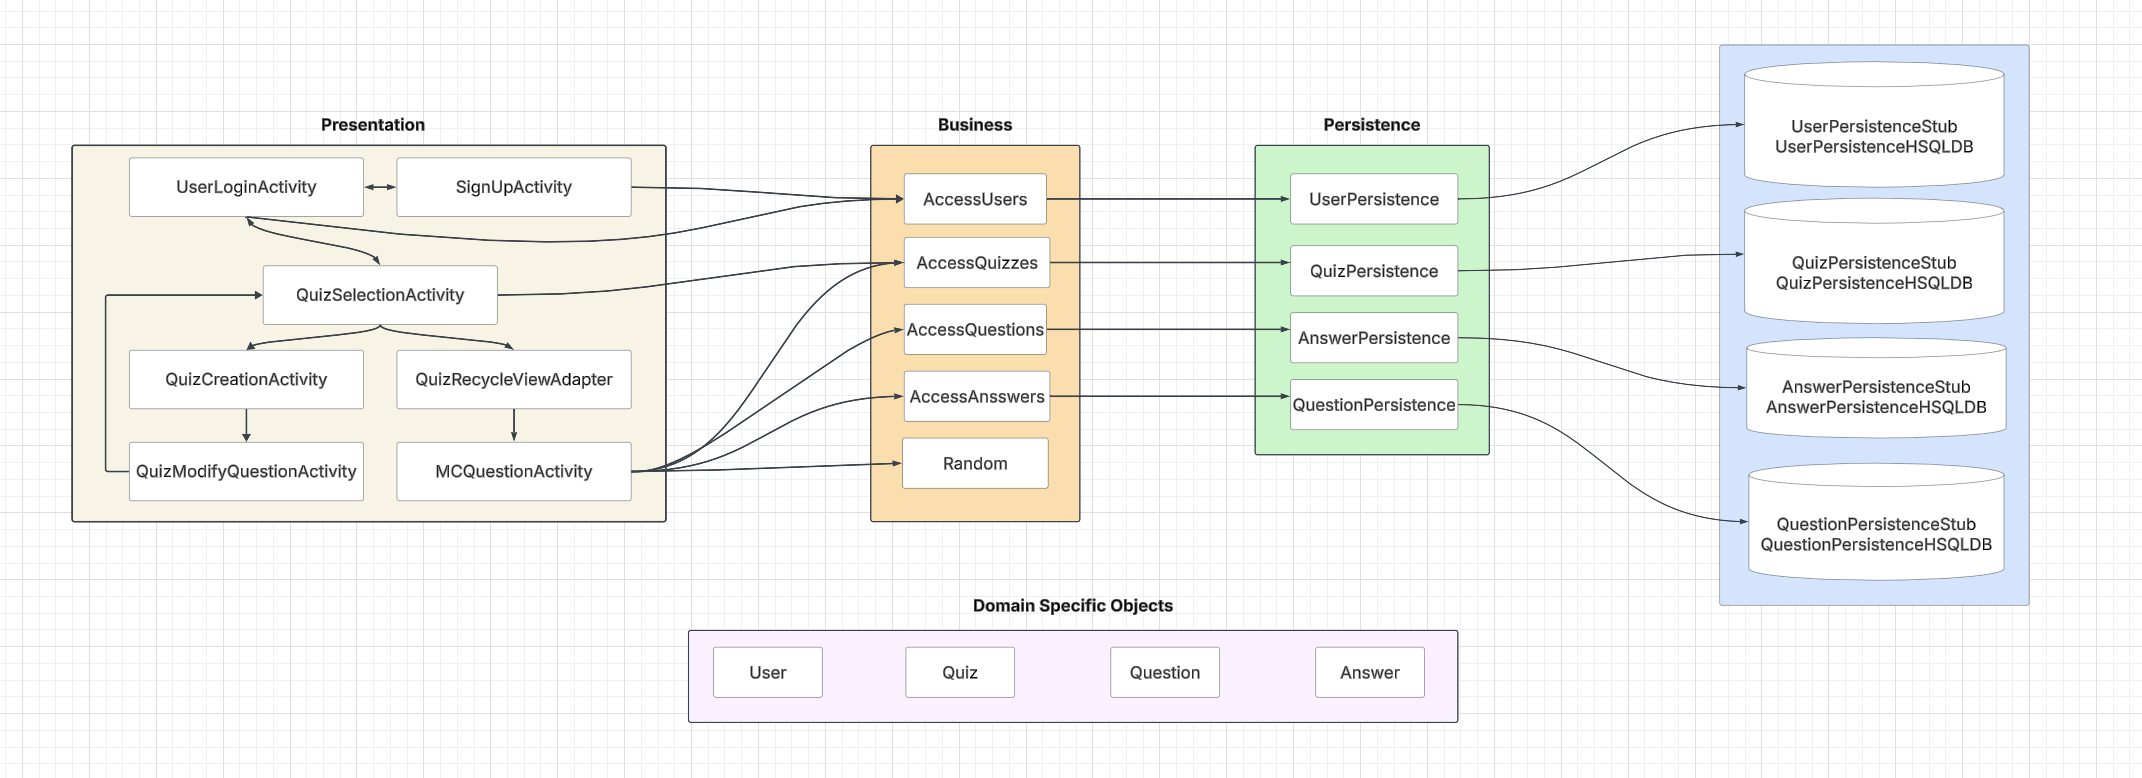
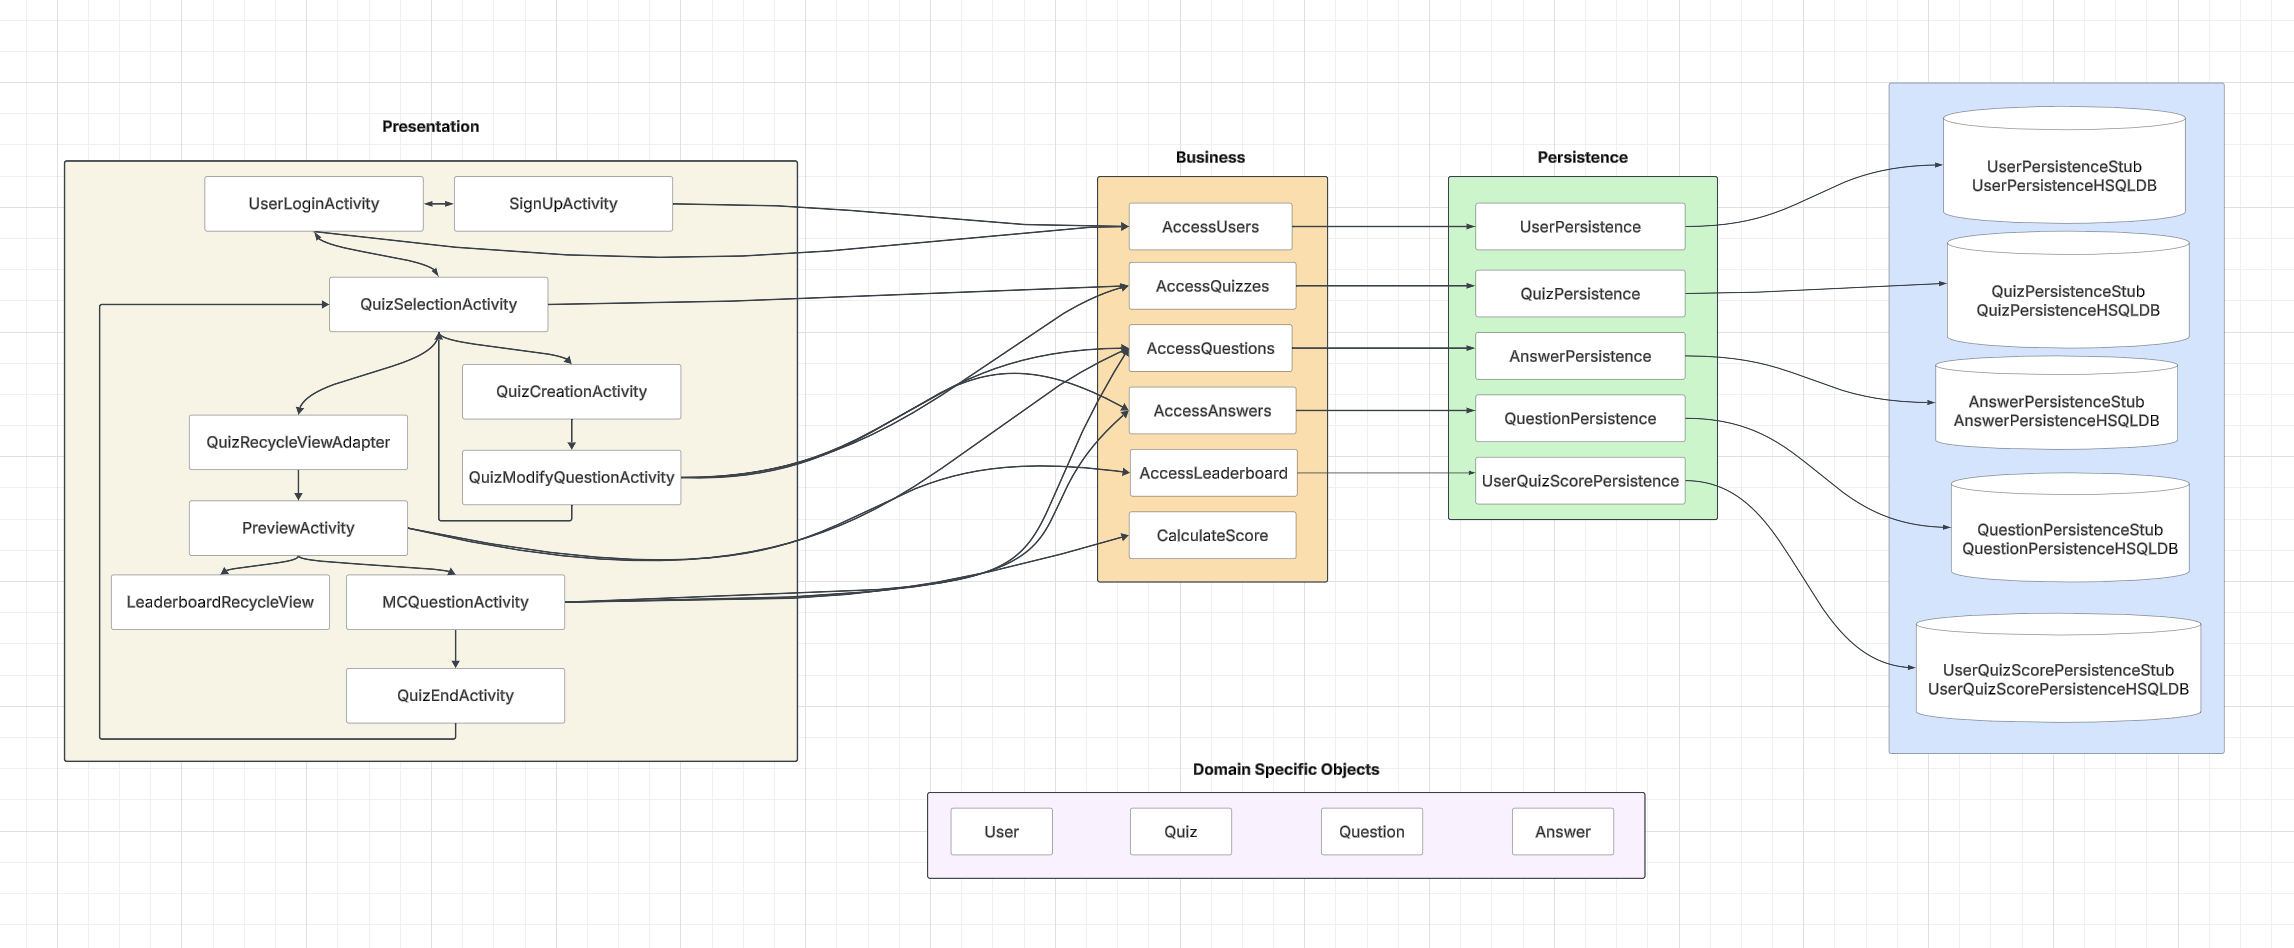
Update README.

diff --git a/RETROSPECTIVE.md b/RETROSPECTIVE.md
@@ -1,0 +1,11 @@
+# COMP 3350 Retrospective
+
+After having discussed with the group, we had come to the conclusion that despite having reached all of our goals, there were still some issues that brought down the success of the project. The first issue that we had was the creation of objects within the persistence layer that needed to be placed in the business layer. This is one of the easier pieces that can be improved by moving the creation of the objects to a more appropriate place. Secondly, we have code in the presentation layer that needs to be in the business layer. This can easily be fixed by pushing the code down to the business layer and calling it in the presentation layer with a method call. Next, one of the issues that arose a lot after talking to the professor and feedback from markers was that the documentation for our code was very inconsistent. Hence, we will take some time to add more comments, especially in the presentation layer. The next issue is cleaning up dead code, primarily the unused constructors in domain-specific object classes. This is another easily fixed issue that can be solved by removing any dead code that we had. The following issue is a result of repetition issues, especially with the buttons in the multiple-choice activity (MCQuestionActivity). We can fix this by modularizing the code so that the buttons are handled separately. Lastly and arguably one of the greatest issues is the distribution of the tasks between team members. Initially, we severely underestimated the time it would take to complete individual layers such as the database layer. This can be resolved and improved by improving communication between team members, and separating the uneven task distribution so that the other layers can take on an equal workload.
+
+To enhance the project, we identified key areas of improvement, focusing on user interaction and code quality. Our goal was to ensure the application provided an interactive experience similar to a video game while maintaining clean and maintainable code. Initially, In terms of the user interaction we wanted the application to feel like an experience similar to that of a video game. To do this we will implement a leaderboard for the top score, add a feature to delete the quiz, and provide a search bar for users to look up quizzes. Firstly, Create a quiz preview page and an end page to display scores, while restructuring the leaderboard code to follow design principles, particularly DRY. This can be measured by the success of the feature, and the modularity of its design. Secondly, we can refactor methods from setters to getters where appropriate so that we can enforce data encapsulation and prevent unintended access to quizzes. We can measure this through the number of operations that change data. Next, we can ensure the search feature is efficiently integrated, by optimizing the operation of the database for performance. This can be measured by the quality of the results based on the user’s input. Lastly, we can refactor object classes to improve maintainability and readability, ensuring a modular design. This can be measured by a decrease in the code’s complexity and a reduction in the duplication of any code which will increase its maintainability.
+
+<br>
+
+<div style="text-align: center;">
+    <img src="VelocityIteration2.png" width="70%" />
+</div>

diff --git a/README.md b/README.md
@@ -3,8 +3,10 @@
 > Quiz"R"Us is a video game quizzing tool that provides an engaging and fun alternative to helping people study and learn.
 
 ### [Vision Statement](https://code.cs.umanitoba.ca/comp3350-winter2025/a02-g11-realengineers/-/blob/main/docs/VisionStatement.md)
-### [Architecture](https://code.cs.umanitoba.ca/comp3350-winter2025/a02-g11-realengineers/-/blob/main/ARCHITECTURE.md?ref_type=heads)
-### [Retrospective]()
+
+### [Architecture](https://code.cs.umanitoba.ca/comp3350-winter2025/a02-g11-realengineers/-/blob/main/ARCHITECTURE.md)
+
+### [Retrospective](https://code.cs.umanitoba.ca/comp3350-winter2025/a02-g11-realengineers/-/blob/main/RETROSPECTIVE.md)
 
 ### Iteration 1
 
